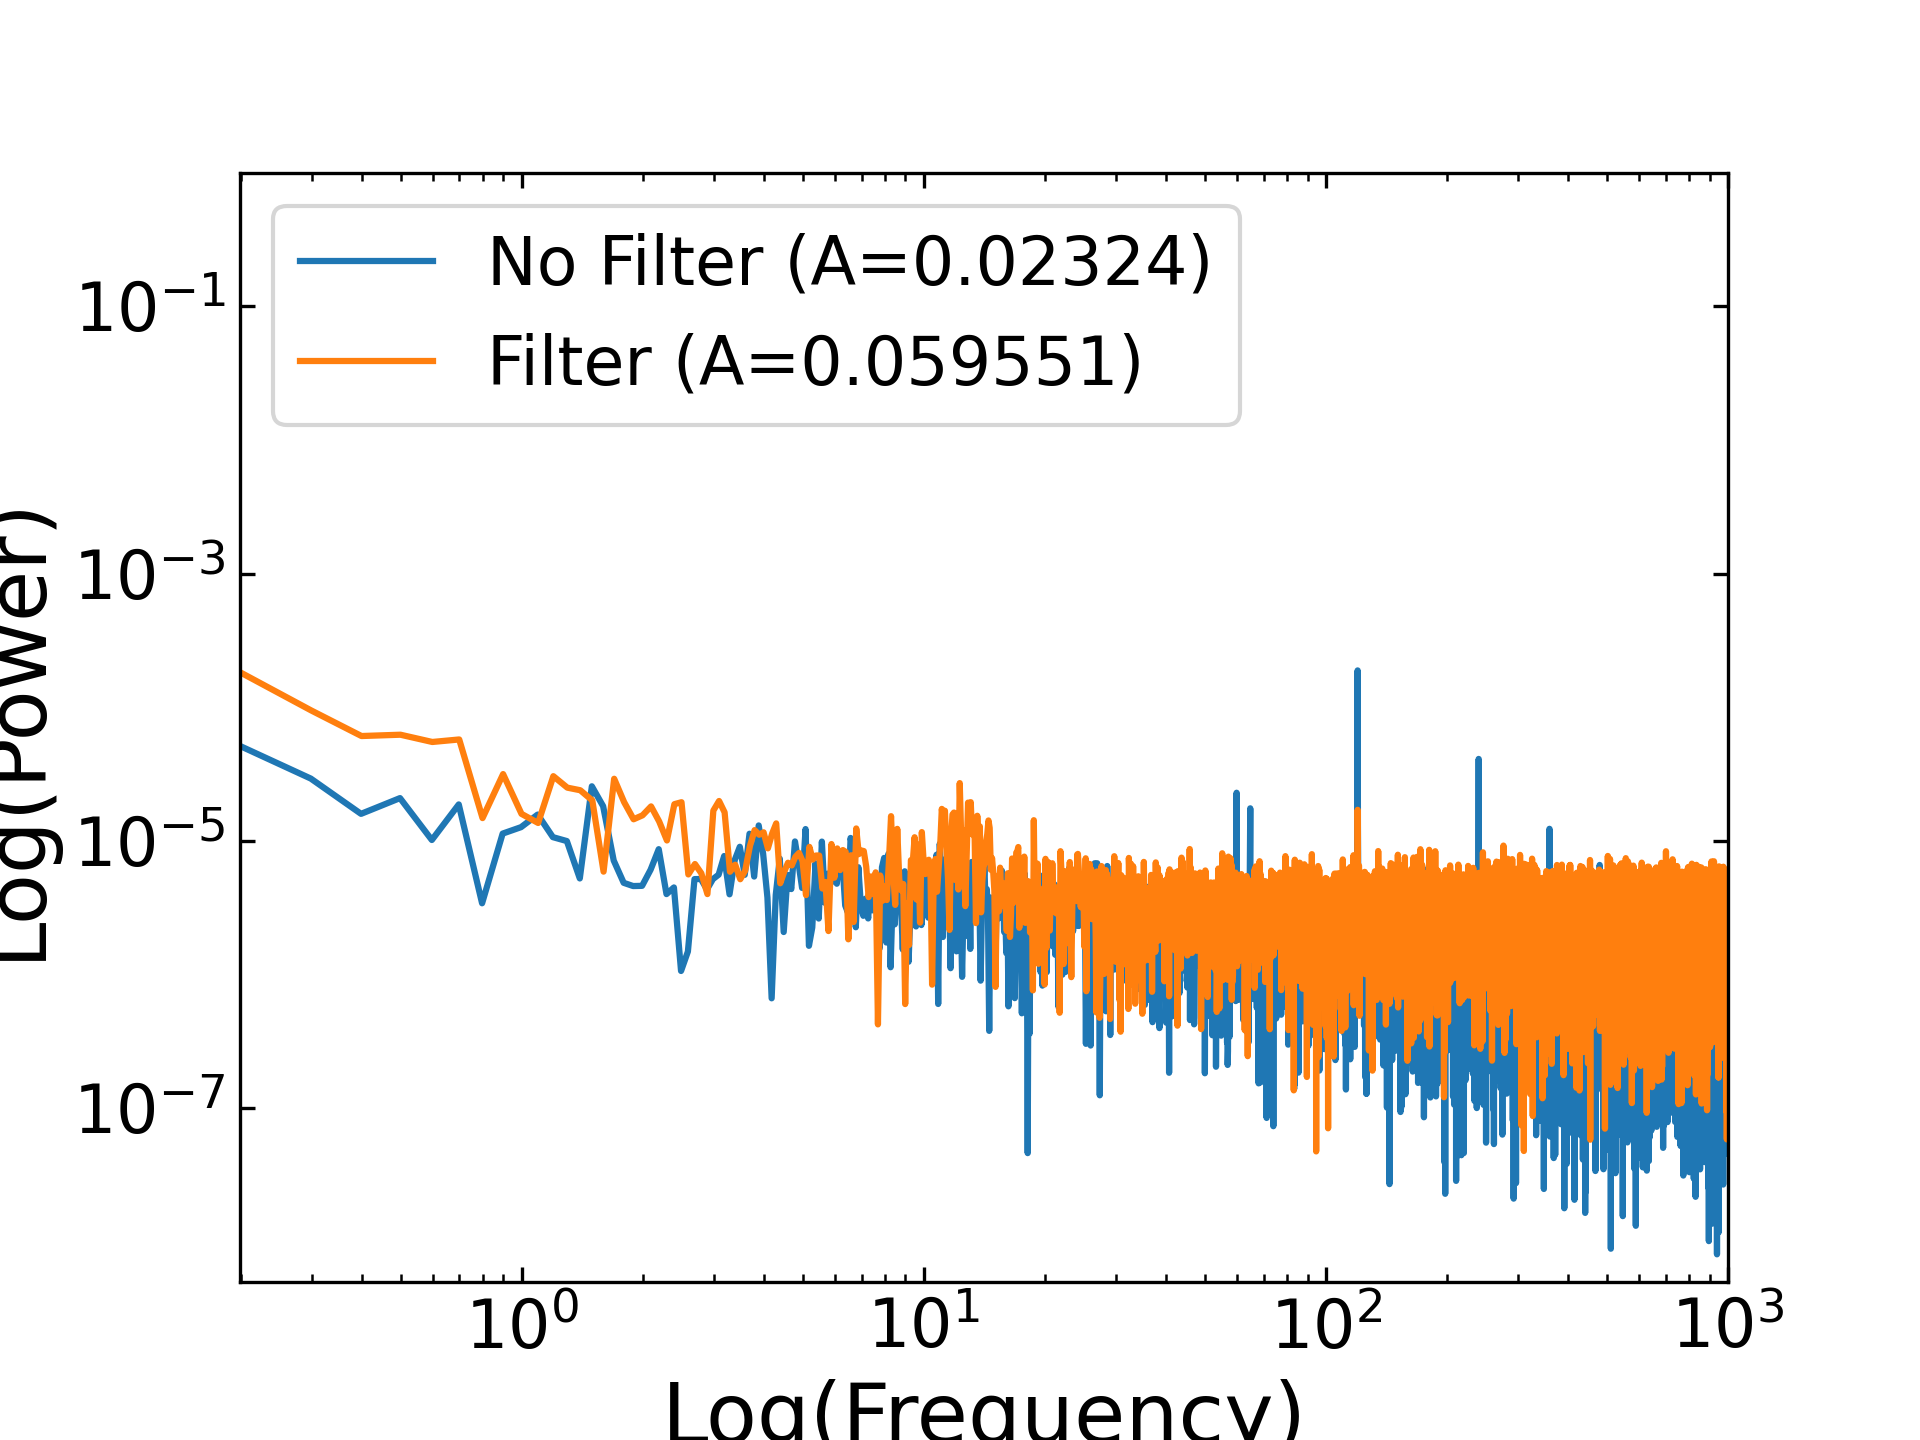
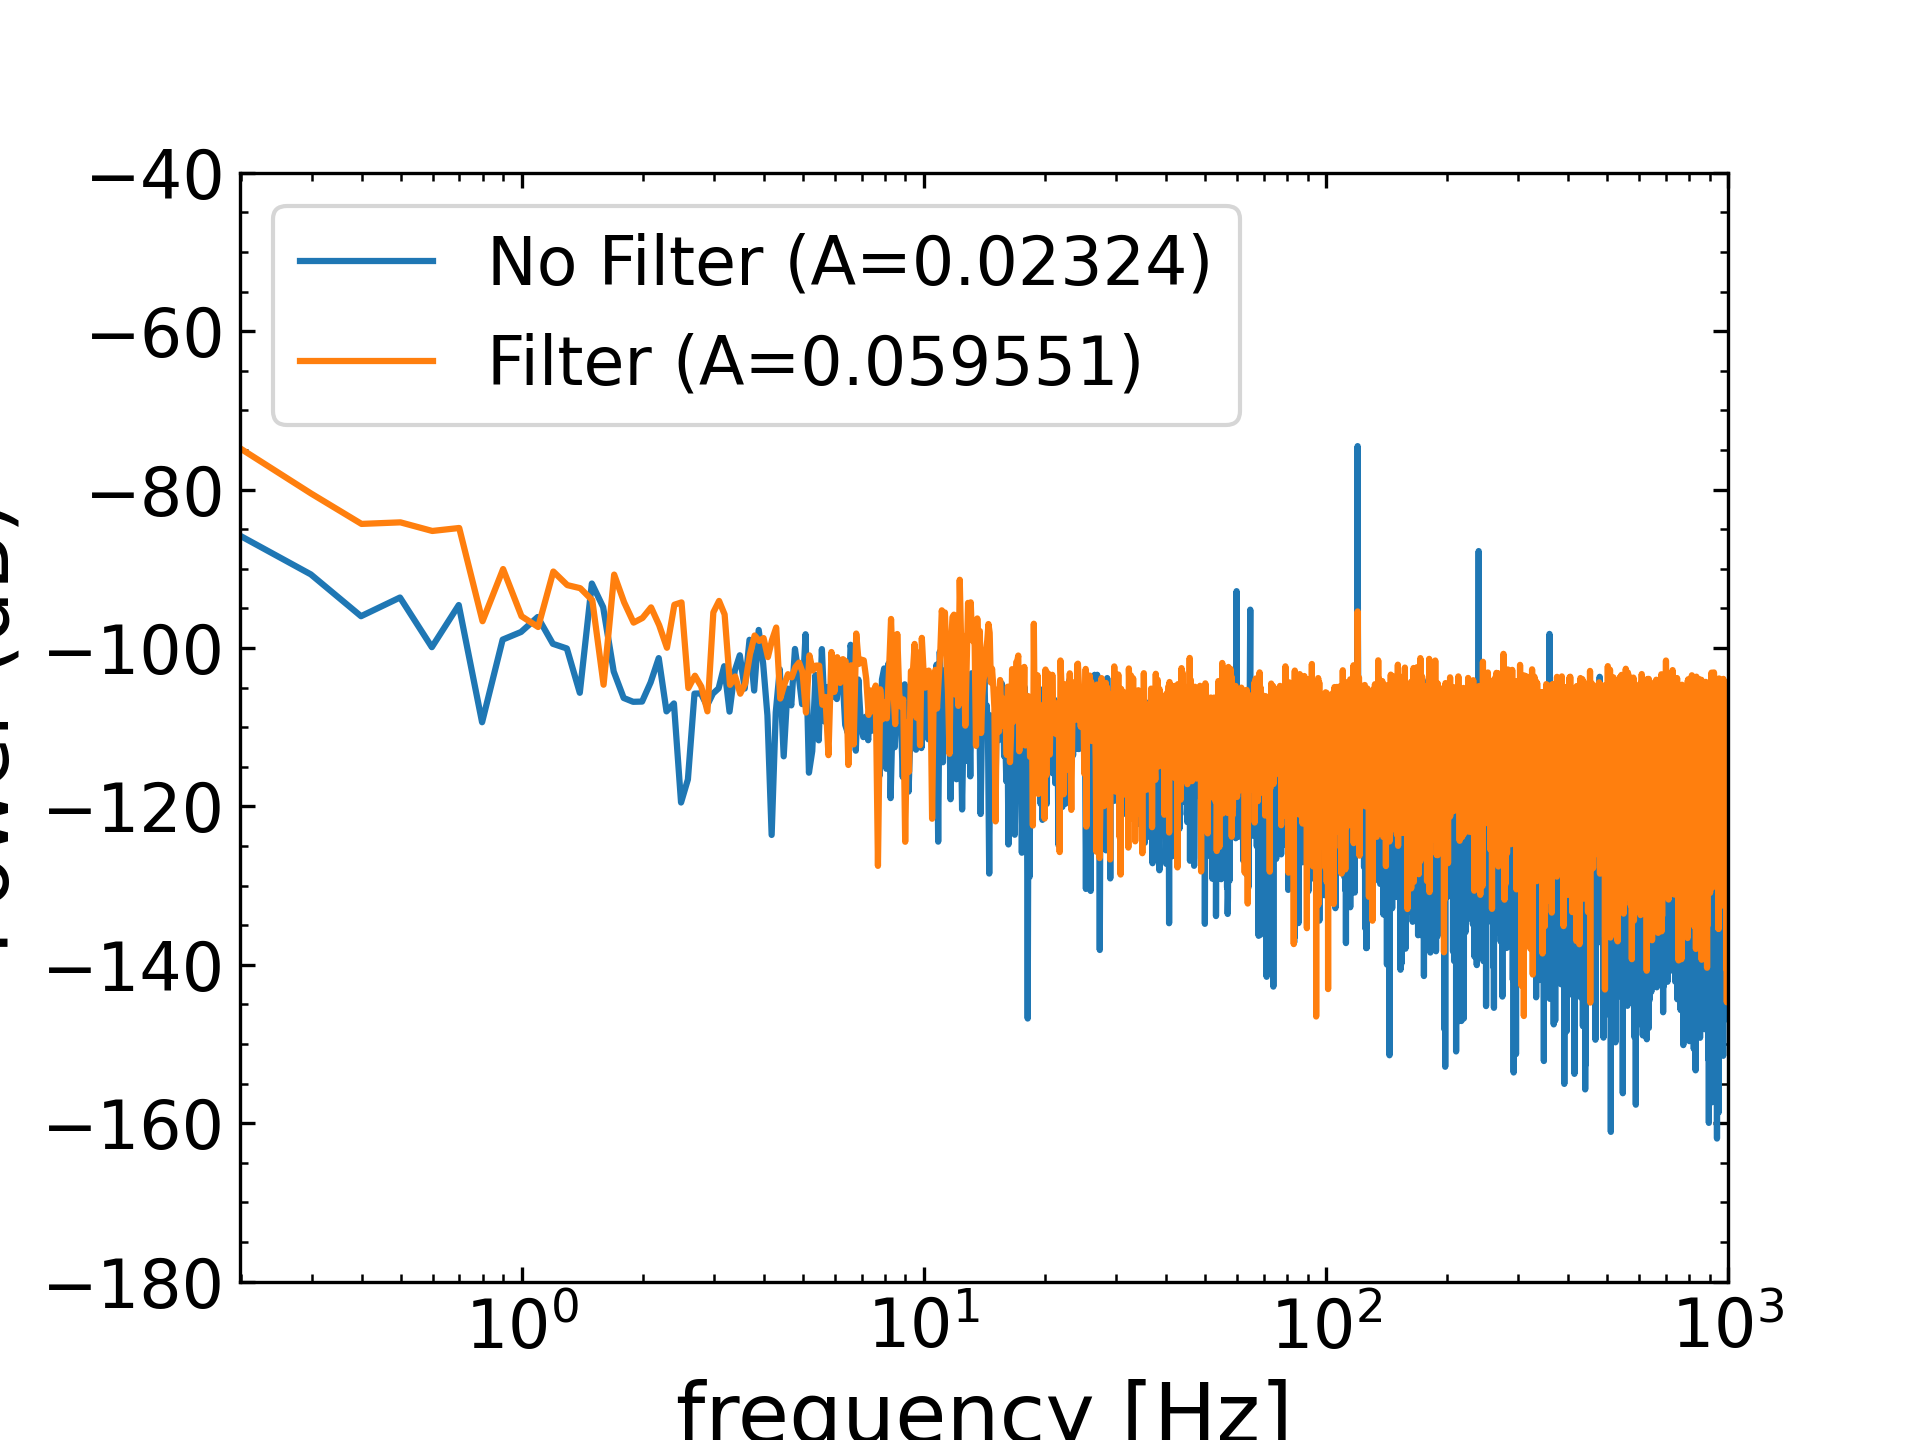
updating plot/code

diff --git a/Controller/data_analysis.py b/Controller/data_analysis.py
@@ -4,8 +4,8 @@ import matplotlib.ticker as tck
 from scipy import integrate
 
 # Load the data from the CSV file
-data0 = np.genfromtxt('/Users/lseverwalter/code/AMFS/Controller/Data/Active_Filter/CSV/no_filter_voltage.csv', delimiter=',')
-data1 = np.genfromtxt('/Users/lseverwalter/code/AMFS/Controller/Data/Active_Filter/CSV/active_filter_voltage_8.csv', delimiter=',')
+data0 = np.genfromtxt('/Users/lseverwalter/code/AMFS/Controller/Noise_Data/Active_Filter/CSV/no_filter_voltage.csv', delimiter=',')
+data1 = np.genfromtxt('/Users/lseverwalter/code/AMFS/Controller/Noise_Data/Active_Filter/CSV/active_filter_voltage_8.csv', delimiter=',')
 # Split the columns into separate numpy arrays
 
 t0 = np.array(data0[:, 0])
@@ -59,7 +59,7 @@ def plot_data(t, v):
     ax.xaxis.label.set_size(20)
     ax.yaxis.label.set_size(20)
     
-    plt.savefig("/Users/lseverwalter/code/AMFS/Controller/Data/Active_Filter/Raw/active_filter_8_raw", dpi=300, transparent=False)
+    #plt.savefig("/Users/lseverwalter/code/AMFS/Controller/Data/Active_Filter/Raw/active_filter_8_raw", dpi=300, transparent=False)
     plt.show()
 
 
@@ -94,10 +94,10 @@ def plotFourrier(t, v, log=False):
         
         
         
-        plt.savefig("/Users/lseverwalter/code/AMFS/Controller/Data/Active_Filter/FFT_LL/active_filter_8_fft_ll", dpi=300, transparent=False)
+        plt.savefig("/Users/lseverwalter/code/AMFS/Controller/Noise_Data/Active_Filter/FFT_LL/active_filter_8_fft_ll", dpi=300, transparent=False)
 
     elif not log:
-        plt.savefig("/Users/lseverwalter/code/AMFS/Controller/Data/Active_Filter/FFT/active_filter_8_fft", dpi=300, transparent=False)
+        plt.savefig("/Users/lseverwalter/code/AMFS/Controller/Noise_Data/Active_Filter/FFT/active_filter_8_fft", dpi=300, transparent=False)
         pass
     
     
@@ -116,6 +116,9 @@ def overplot_fourrier(t0, v0, t1, v1, log=False):
     
     freq1 = freq1[2:]
     fft1 = fft1[2:]
+    if log:
+        fft0 = 20 * np.log10(fft0)
+        fft1 = 20 * np.log10(fft1)
 
     fig, ax = plt.subplots(1, 1, num=2)
     ax.plot(freq0, fft0, label=f"No Filter (A={area0})")
@@ -135,14 +138,14 @@ def overplot_fourrier(t0, v0, t1, v1, log=False):
 
     if log:
         ax.set_xscale('log')
-        ax.set_yscale('log')
-        ax.set(xlabel='Log(Frequency)', xlim=None)
-        ax.set(ylabel='Log(Power)', ylim=(5e-9, 1))
+        #ax.set_yscale('log')
+        ax.set(xlabel='frequency [Hz]', xlim=None)
+        ax.set(ylabel='Power (dB)', ylim=(-180, -40))
         
     elif not log:
         pass
    
-    plt.savefig("/Users/lseverwalter/code/AMFS/Controller/Data/Active_Filter/FFT_Overplot/no_filter_filter_8", dpi=300, transparent=False)
+    plt.savefig("/Users/lseverwalter/code/AMFS/Controller/Noise_Data/Active_Filter/FFT_Overplot/no_filter_filter_8", dpi=300, transparent=False)
     plt.show()
 
 
